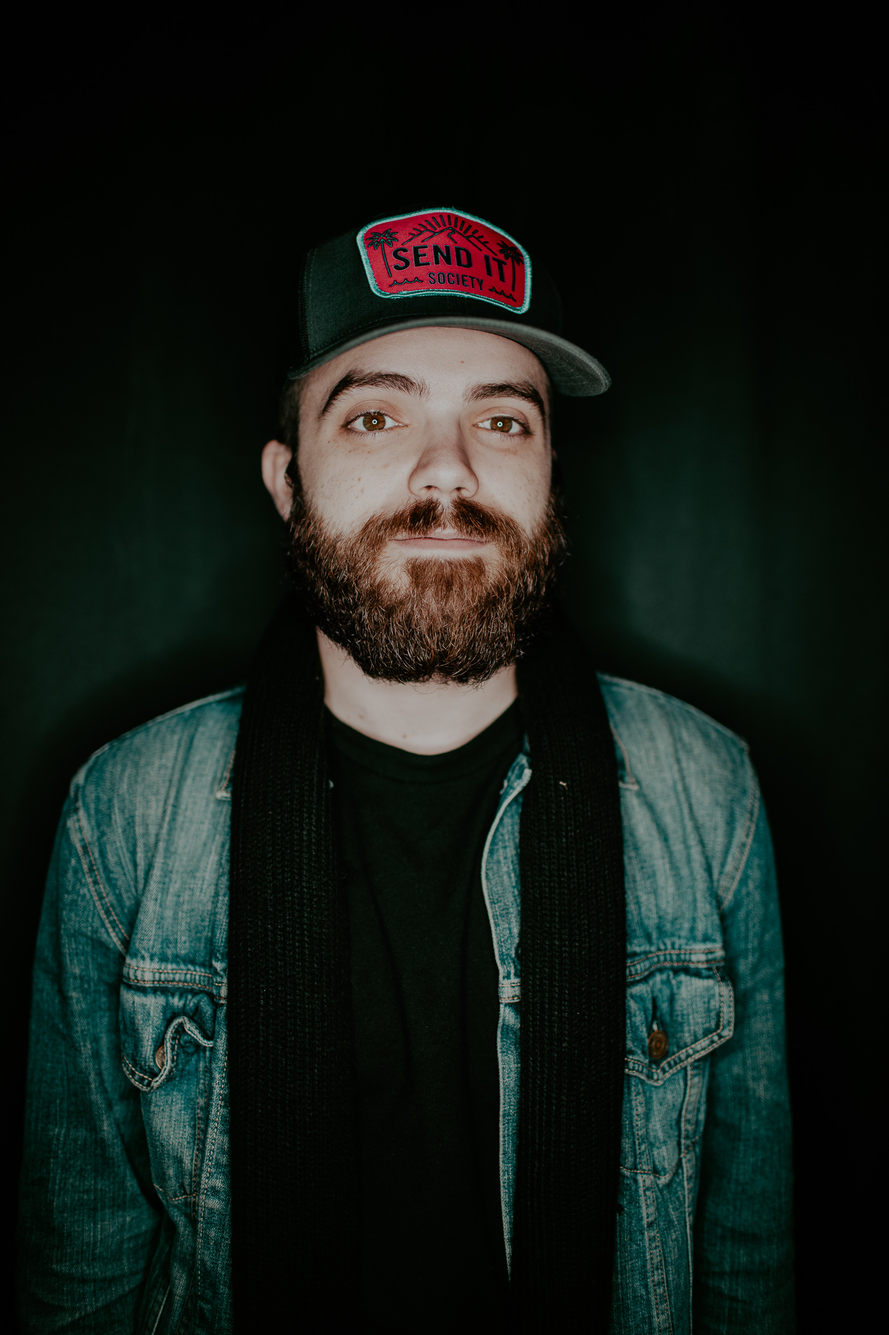
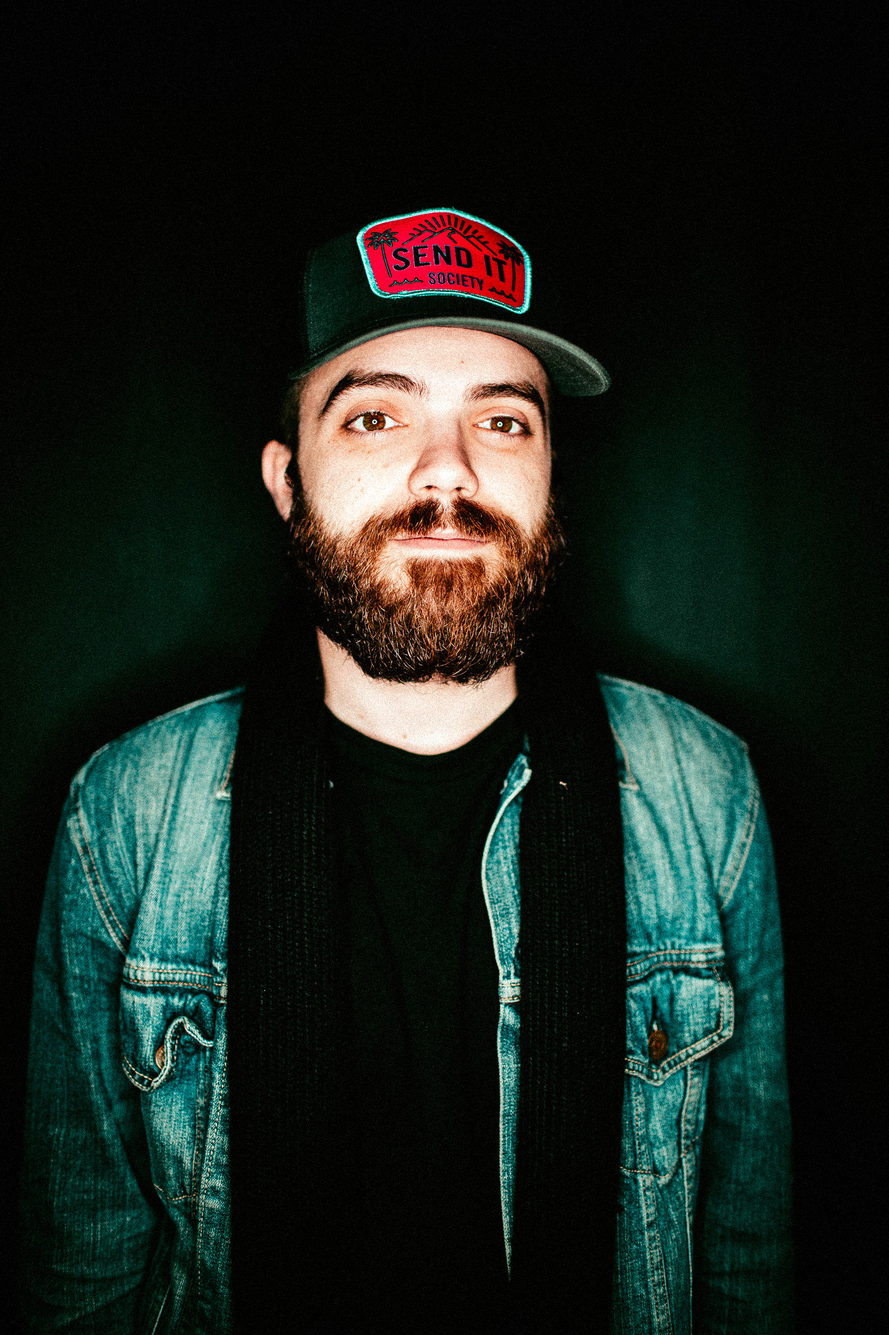
photo update + hello

diff --git a/hello.html b/hello.html
@@ -9,9 +9,9 @@
   <title>Harry Wilson Dunaway III</title>
 </head>
 <body>
-  <img src="headshot3.jpg" alt="Harry Wilson Dunaway III">
+  <img src="streetshot.jpg" alt="Harry Wilson Dunaway III">
   <section>&nbsp;</section>
-  <p>Hello, I'm Harry.</p>
+  <p>Hello, I'm Harry. I play music, design websites, and drink coffee.</p>
   <p><a href="/">&leftarrow; got it</a></p>
   <section>&nbsp;</section>
   <p><a href="mailto:contact@harrywilsondunaway.com">email</a> <a href="https://www.twitter.com/hrrywlsndnwy">twitter</a> <a href="https://www.instagram.com/hrrywlsndnwy">instagram</a></p>

diff --git a/index.html b/index.html
@@ -11,7 +11,7 @@
 <body>
   <img src="hrrywlsndnwyst.svg" alt="HRRY WLSN DNWY">
   <section>&nbsp;</section>
-  <img src="headshot2.jpg" alt="Harry Wilson Dunaway III">
+  <img src="headshot.jpg" alt="Harry Wilson Dunaway III">
   <section>&nbsp;</section>
   <p><a href="mailto:contact@harrywilsondunaway.com">email</a> <a href="https://www.twitter.com/hrrywlsndnwy">twitter</a> <a href="https://www.instagram.com/hrrywlsndnwy">instagram</a> <a href="hello.html">who?</a></p>
   <p>&copy; HARRY WILSON DUNAWAY III 2020</p>
